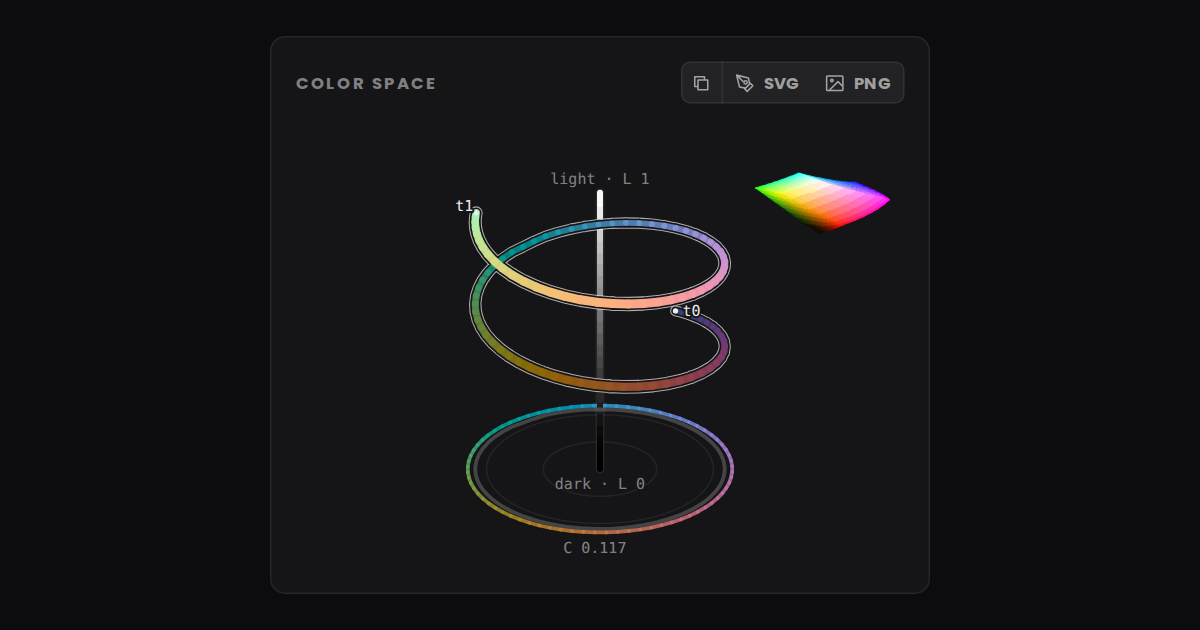
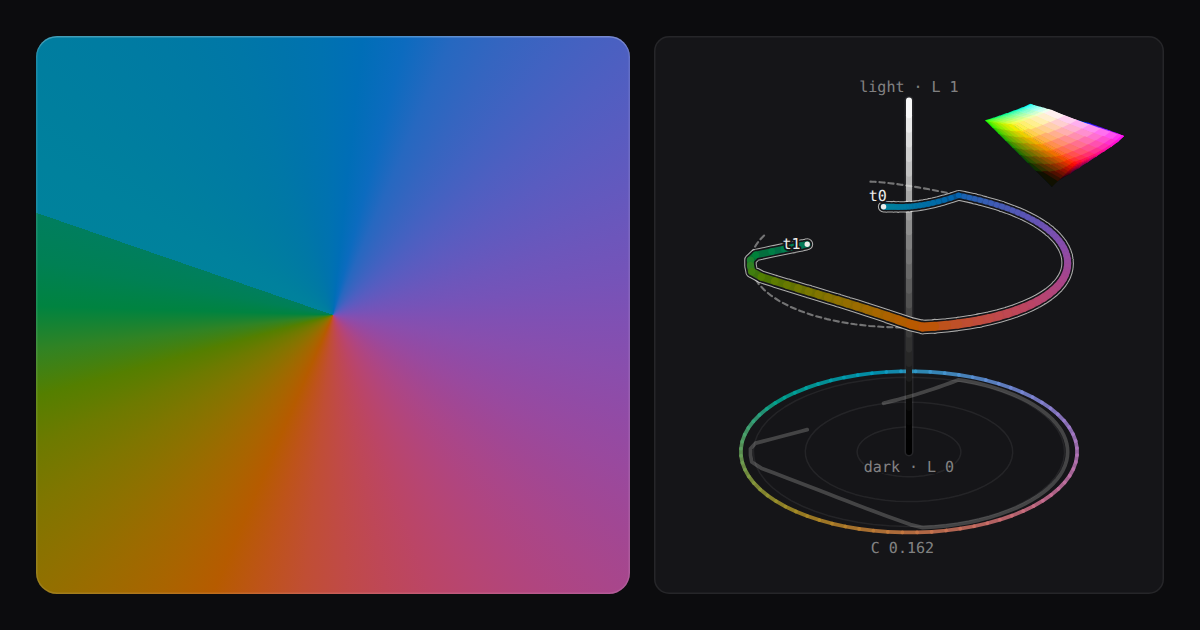
Draw About's share card from Random: a palette the site's Random draws, in a view drawn at random as well (any style and angle; bands in a few steps or many, 3 to 7 or 20 to 40, a gradient in many, 16 to 48), beside the Color space pane's scene of the same palette, a dot for each step where the view

diff --git a/apps/web/scripts/about-card.ts b/apps/web/scripts/about-card.ts
@@ -1,59 +1,66 @@
-/* About's share card: the editor's Color space pane as a component on the site's ground, its head (the name, and the
-   strip that copies and saves the figure) over the solid it draws. The scene is the pane's own marks (solid.ts) at the
-   pane's first camera, its frame is the pane's CSS with the tokens' values, and build-icons.ts draws the page at
-   ABOUT_CARD's scale into public/about.png. Its words are English: one picture serves every language, as the site's
-   card does. */
-import { readFile } from "node:fs/promises";
+/* About's share card: the editor in small. A palette the site's Random draws, in a view drawn at random as well (a
+   style, steps and an angle; band styles take few steps or many, gradients many), stands beside the Color space pane's
+   scene of the same palette: its path through the solid, a dot for each step where the view draws bands. The scene is
+   the pane's own marks (solid.ts) at the pane's first camera, the frames are the site's CSS with the tokens' values,
+   and build-icons.ts draws the page at ABOUT_CARD's scale into public/about.png, a new draw each time it runs. The
+   scene's few labels stay as written: one picture serves every language, as the site's card does. */
+import { canonical } from "@grabient/engine/codec.ts";
+import { gradientCss } from "@grabient/engine/css.ts";
+import { sampleStops } from "@grabient/engine/curve.ts";
 import type { Palette } from "@grabient/engine/palette.ts";
-import { t } from "@grabient/i18n";
-import { ICONS, type IconName } from "@grabient/ui/icons.data.ts";
+import { randomPalette } from "@grabient/engine/random.ts";
+import { isSwatchStyle, STYLES, type Style } from "@grabient/engine/view.ts";
 import { marksSvg } from "@grabient/ui/marks.ts";
 import { CAM0, solidFrame, solidScene } from "@grabient/ui/solid.ts";
-import { color, font, radius, size, space } from "@grabient/ui/tokens.ts";
+import { color, radius, size, space } from "@grabient/ui/tokens.ts";
 
 /** The page in CSS px, drawn at `scale`: 1200 by 630. */
 export const ABOUT_CARD = { w: 800, h: 420, scale: 1.5 } as const;
-/* the pane stands in the middle with the ground around it, as narrow as its scene needs */
-const PANE = { w: 440, h: ABOUT_CARD.h - 2 * space.s6 };
-/* the scene's box: the pane less its edge, its padding, its head and the gap under the head */
+/* the picture and the pane side by side on the ground, as tall as the margins leave them */
+const H = ABOUT_CARD.h - 2 * space.s6;
+const PANE = { w: 340, h: H };
+const PICTURE = { w: ABOUT_CARD.w - 2 * space.s6 - space.s4 - PANE.w, h: H };
+/* the scene's box: the pane less its edge and its padding */
 const SCENE = {
   w: PANE.w - 2 * (size.hairline + space.s4),
-  h: PANE.h - 2 * (size.hairline + space.s4) - size.controlSm - space.s3
-};
-/* a palette that climbs the pole: lightness 0.4 to 0.9 at one chroma while hue travels 600°, inside sRGB all the
-   way, so the coil keeps its radius and nothing in it is gamut-mapped */
-const CLIMB: Palette = {
-  anchors: [0, 1, 2, 3, 4].map(i => ({ l: 0.4 + 0.125 * i, c: 0.11, h: 270 + 150 * i }))
+  h: PANE.h - 2 * (size.hairline + space.s4)
 };
 
-const icon = (name: IconName) =>
-  `<svg width="13" height="13" viewBox="0 0 24 24" fill="none" stroke="currentColor" stroke-width="1.9" stroke-linecap="round" stroke-linejoin="round"><path d="${ICONS[name]}"/></svg>`;
+/** What the card shows: a palette and how its picture is drawn. */
+export interface AboutDraw {
+  palette: Palette;
+  style: Style;
+  steps: number;
+  angle: number;
+}
 
-/** The card as a page of ABOUT_CARD's CSS size, in the theme's colors, Poppins inlined. */
-export async function aboutCardHtml(theme: "dark" | "light" = "dark"): Promise<string> {
+/** A palette as Random draws one, and a view for it: any style and angle; bands in a few steps or many (3 to 7, or 20
+    to 40, even odds), a gradient in many (16 to 48), so it follows its curve smoothly. */
+export function aboutDraw(rand: () => number = Math.random): AboutDraw {
+  const int = (lo: number, hi: number) => lo + Math.floor(rand() * (hi - lo + 1));
+  const palette = canonical(randomPalette(rand));
+  const style = STYLES[Math.floor(rand() * STYLES.length)] ?? STYLES[0];
+  const steps = isSwatchStyle(style) ? (rand() < 0.5 ? int(3, 7) : int(20, 40)) : int(16, 48);
+  return { palette, style, steps, angle: int(0, 359) };
+}
+
+/** The card as a page of ABOUT_CARD's CSS size, in the theme's colors. */
+export function aboutCardHtml(draw: AboutDraw, theme: "dark" | "light" = "dark"): string {
   const c = color[theme];
-  const poppins = await readFile(
-    new URL("../public/fonts/poppins-latin-700-normal.woff2", import.meta.url)
-  );
   const scene = solidScene(
-    solidFrame(CLIMB, 7, false, false),
+    solidFrame(draw.palette, draw.steps, isSwatchStyle(draw.style), false),
     CAM0,
     { ink: c.ink, ink3: c.ink3, edge: c.edge, paper: c.paperSolid },
     SCENE.w,
     SCENE.h,
     { hullK: 0, outline: true }
   );
-  const words = `${font.bold} ${font.fs1}px/${font.lhNone} ${font.sans}`;
-  const css = `@font-face{font-family:Poppins;font-weight:${font.bold};src:url(data:font/woff2;base64,${poppins.toString("base64")}) format("woff2")}
-*{box-sizing:border-box}
+  const hexes = sampleStops(draw.palette, draw.steps).map(stop => stop.hex);
+  const css = `*{box-sizing:border-box}
 html,body{margin:0;width:${ABOUT_CARD.w}px;height:${ABOUT_CARD.h}px;overflow:hidden;background:${c.bg}}
-body{display:grid;place-items:center}
-.pane{display:flex;flex-direction:column;gap:${space.s3}px;width:${PANE.w}px;height:${PANE.h}px;padding:${space.s4}px;border:${size.hairline}px solid ${c.edge};border-radius:${radius.control}px;background:${c.paperSolid}}
-.head{display:flex;align-items:center;justify-content:space-between;gap:${space.s3}px;min-height:${size.controlSm}px}
-.name{color:${c.ink3};font:${words};letter-spacing:${font.lsMicro};text-transform:uppercase}
-.strip{display:flex;outline:${size.hairline}px solid ${c.edge};outline-offset:-${size.hairline}px;border-radius:${radius.tight}px;background:${c.paper2};color:${c.ink2}}
-.chip{display:flex;align-items:center;justify-content:center;gap:${space.s1}px;height:${size.controlSm}px;padding:0 ${space.s2}px;font:${words};white-space:pre}
-.mode{width:${size.controlSm}px;padding:0;border-right:${size.hairline}px solid ${c.edge}}
-svg.scene{display:block}`;
-  return `<!doctype html><html lang="en"><head><meta charset="utf-8"><style>${css}</style></head><body><div class="pane"><div class="head"><span class="name">${t("Color space")}</span><span class="strip"><span class="chip mode">${icon("copy")}</span><span class="chip">${icon("vector")} SVG</span><span class="chip">${icon("image")} PNG</span></span></div><svg class="scene" width="${SCENE.w}" height="${SCENE.h}" viewBox="0 0 ${SCENE.w} ${SCENE.h}">${marksSvg(scene.marks, "s")}</svg></div></body></html>`;
+body{display:flex;gap:${space.s4}px;padding:${space.s6}px}
+.picture{width:${PICTURE.w}px;height:${PICTURE.h}px;border-radius:${radius.surface}px;background:${gradientCss(hexes, draw.style, draw.angle)};box-shadow:${c.rim}}
+.pane{width:${PANE.w}px;height:${PANE.h}px;padding:${space.s4}px;border:${size.hairline}px solid ${c.edge};border-radius:${radius.control}px;background:${c.paperSolid}}
+svg{display:block}`;
+  return `<!doctype html><html lang="en"><head><meta charset="utf-8"><style>${css}</style></head><body><div class="picture"></div><div class="pane"><svg width="${SCENE.w}" height="${SCENE.h}" viewBox="0 0 ${SCENE.w} ${SCENE.h}">${marksSvg(scene.marks, "s")}</svg></div></body></html>`;
 }

diff --git a/apps/web/scripts/build-icons.ts b/apps/web/scripts/build-icons.ts
@@ -7,11 +7,12 @@
    - the icons a browser takes as raster files, drawn from the mark by Chromium: favicon.ico, the bar alone in the light
      scheme's colors, for Safari, Google Search and tabs of a file that names no icon; favicon-tile.ico and its PNGs,
      the bar on a rounded tile of the dark ground (the design document shows it); and a home screen's full squares;
-   - public/about.png, About's card: the editor's Color space pane on the dark ground (about-card.ts), by Chromium.
+   - public/about.png, About's card: a palette Random draws, in a view drawn at random, beside the Color space pane's
+     scene of it (about-card.ts), by Chromium; each run draws a new one, and logs it.
    Run it by hand when what a card draws changes (with a new CARD_VERSION), or the brand's gradient, the mark, or what
    the color space or its pane draws: node apps/web/scripts/build-icons.ts */
 import { writeFile } from "node:fs/promises";
-import { decodePalette } from "@grabient/engine/codec.ts";
+import { decodePalette, encodePalette } from "@grabient/engine/codec.ts";
 import { drawnView } from "@grabient/engine/view.ts";
 import { MARK_FIXED, markSvg, markTileSvg } from "@grabient/ui/mark.ts";
 import { color } from "@grabient/ui/tokens.ts";
@@ -19,7 +20,7 @@ import { chromium } from "@playwright/test";
 import { DEFAULT_SEED } from "../src/lib/page-meta.ts";
 import { emailHead } from "../src/server/images/cards.ts";
 import { drawCard, keyframeColors, lookOf } from "../src/server/images/paint.ts";
-import { ABOUT_CARD, aboutCardHtml } from "./about-card.ts";
+import { ABOUT_CARD, aboutCardHtml, aboutDraw } from "./about-card.ts";
 
 const web = new URL("../public/", import.meta.url);
 const design = new URL("../../design/public/", import.meta.url);
@@ -104,9 +105,12 @@ try {
     viewport: { width: ABOUT_CARD.w, height: ABOUT_CARD.h },
     deviceScaleFactor: ABOUT_CARD.scale
   });
-  await about.setContent(await aboutCardHtml());
-  await about.evaluate(() => document.fonts.ready);
+  const drawn = aboutDraw();
+  await about.setContent(aboutCardHtml(drawn));
   await write(await about.screenshot(), "about.png", web);
+  console.log(
+    `about.png: /${encodePalette(drawn.palette)}?style=${drawn.style}&steps=${drawn.steps}&angle=${drawn.angle}`
+  );
 } finally {
   await browser.close();
 }

diff --git a/apps/web/src/lib/page-meta.ts b/apps/web/src/lib/page-meta.ts
@@ -299,7 +299,7 @@ const FIXED = {
       "How Grabient makes gradients from 2 to 8 keyframes in OKLCH: the formula, steps, hue past 360°, colors a screen can't show and the seed in each URL."
     ),
     named: true,
-    /* the editor's Color space pane, drawn by scripts/build-icons.ts */
+    /* a palette Random drew beside its Color space scene, drawn by scripts/build-icons.ts */
     image: "/about.png",
     imageAlt: msg("A color palette's path through the OKLCH color space")
   },
